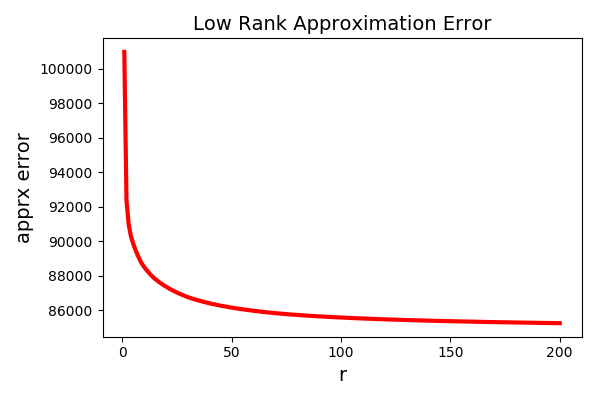
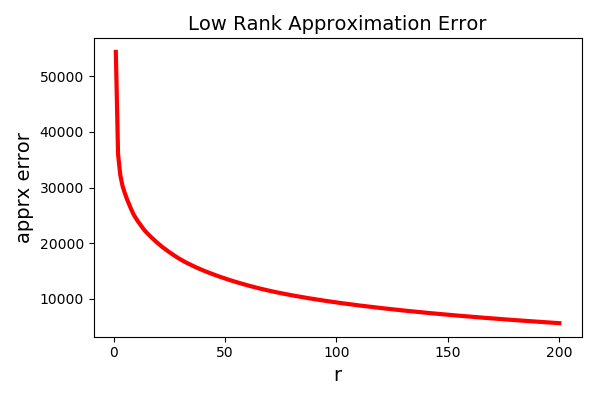
minor modifications

diff --git a/cooking.py b/cooking.py
@@ -29,14 +29,14 @@ def getAllIngredients(data):
 def transformIngredientsAndLabels(data, ingredients):
 	labelEncoder = LabelEncoder()
 	labels = labelEncoder.fit_transform(data.cuisine)
-	enc = CountVectorizer(vocabulary=ingredients, tokenizer=lambda x : x.split('sepearate'))
-	ingredients = map(lambda r: "sepearate".join(r), data.ingredients)
+	enc = CountVectorizer(vocabulary=ingredients, tokenizer=lambda x : x.split(','))
+	ingredients = map(lambda r: ",".join(r), data.ingredients)
 	ingredients = enc.fit_transform(ingredients)
 	return ingredients, labels
  
 def transformIngredients(data, ingredients):
-	enc = CountVectorizer(vocabulary=ingredients, tokenizer=lambda x : x.split('sepearate'))
-	ingredients = map(lambda r: "sepearate".join(r), data.ingredients)
+	enc = CountVectorizer(vocabulary=ingredients, tokenizer=lambda x : x.split(','))
+	ingredients = map(lambda r: ",".join(r), data.ingredients)
 	return enc.fit_transform(ingredients)
 
 def performKFoldBayes(data, labels, prior):
@@ -74,13 +74,11 @@ def saveResults(train_data, test_data, predictions):
 	results = np.column_stack((test_data.id, predictions))
 	print (results)
 	file = open('test_cooking_predictions.csv', 'w')
-	# write header
 	file.write('id,cuisine')
 	for test_id, cuisine in results:
 		file.write('\n')
 		file.write(str(test_id) + ',' + cuisine)
 	file.close()
-	#np.savetext('test_cooking_predictions.csv', results, delimiter=',', fmt='%s', header='id,cuisine')
 
 train_data = load_data(train_file)
 test_data = load_data(test_file)

diff --git a/eigenFaces.py b/eigenFaces.py
@@ -150,7 +150,7 @@ U, S, V = performSVD(_train_data)
 displayEigenfaces(V)
 
 # compute the low rank approximation errors for r in range 1:200
-low_rank_errs = computeRankApproxErr(U, S, V, train_data)
+low_rank_errs = computeRankApproxErr(U, S, V, _train_data)
 # plot the low rank approximation errors as a function of r
 plotRankApproxErrForRank(low_rank_errs)
 
